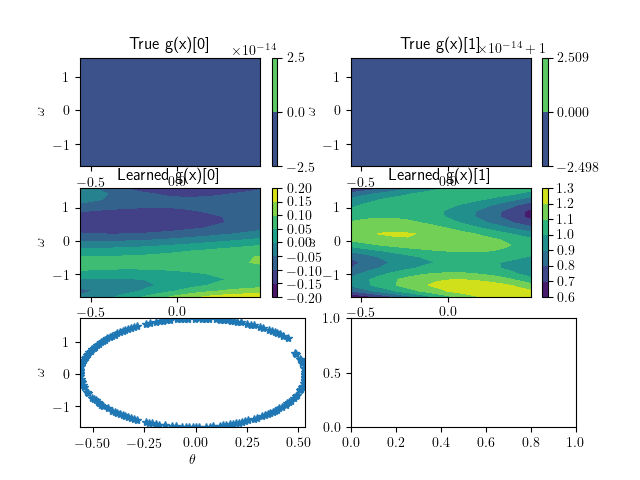
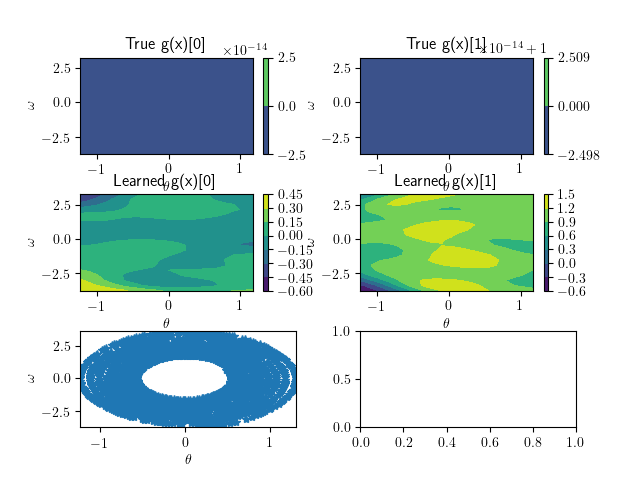
some other control input

diff --git a/tests/test_control_affine_regression.py b/tests/test_control_affine_regression.py
@@ -19,7 +19,7 @@ def sample_generator_trajectory(f, g, D, n, m, dt=0.01):
     Xdot = np.zeros((D, n))
     # Single trajectory
     for i in range(D):
-        U[i, :] = np.sin(X[i, 0]) * np.random.rand(m)
+        U[i, :] = np.sin(X[i, 0]) * np.abs(np.random.rand(m)) + 0.2 * np.random.rand()
         Xdot[i, :] = f(X[i, :]) + g(X[i, :]) @ U[i, :]
         X[i+1, :] = X[i, :] + Xdot[i, :] * dt
     return Xdot, X, U
@@ -148,8 +148,10 @@ def test_GP_train_predict(n=2, m=3,
     _ = dgp.predict(Xtest, return_cov=False)
     dgp.fit(Xtrain, Utrain, XdotTrain, training_iter=50, lr=0.01)
     plot_learned_2D_func(Xtrain, dgp.f_func, dynamics_model.f)
+    plt.savefig('f_learned_vs_f_true.pdf')
     plt.show()
     plot_learned_2D_func(Xtrain, dgp.g_func, dynamics_model.g, axtitle="g(x)[{i}]")
+    plt.savefig('g_learned_vs_g_true.pdf')
     plt.show()
 
     UHtest = np.concatenate((np.ones((Utest.shape[0], 1)), Utest), axis=1)
